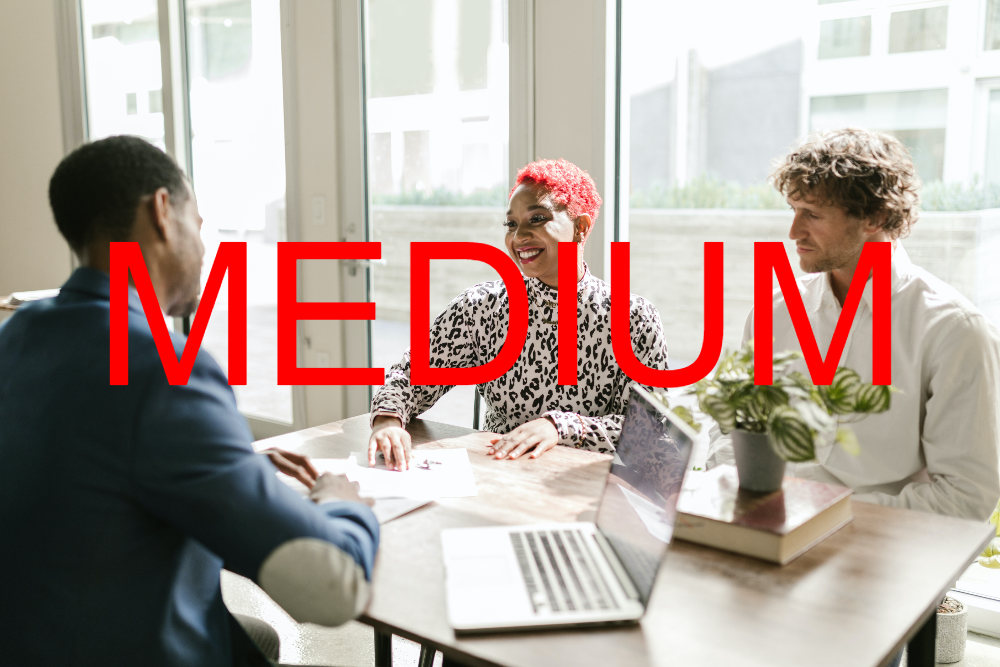
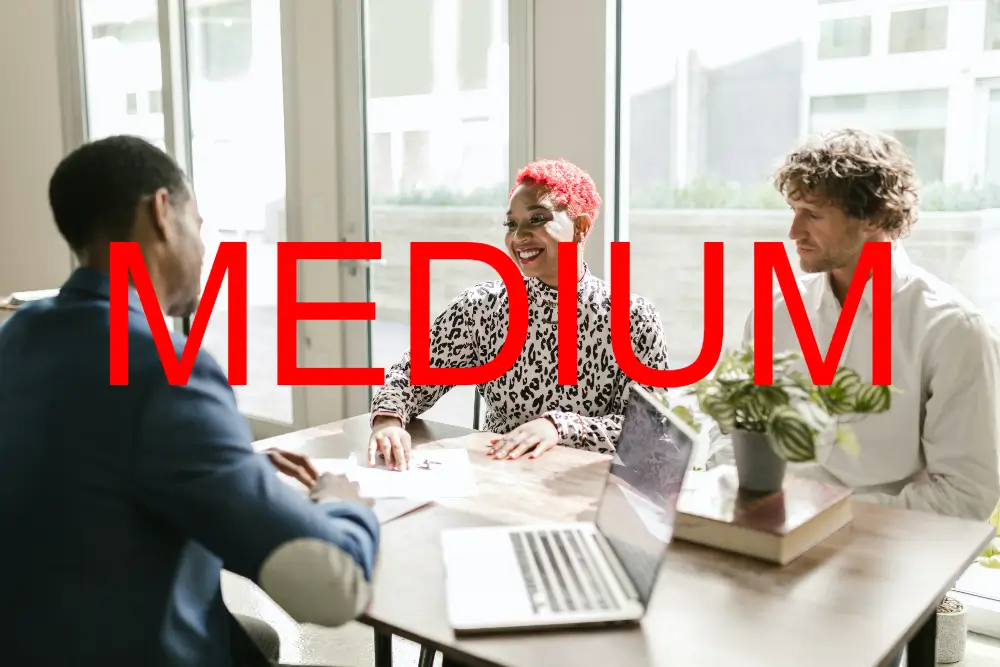
commit progressive loading images

diff --git a/lazyload.html b/lazyload.html
@@ -1,0 +1,37 @@
+<!DOCTYPE html>
+<html lang="en">
+<head>
+    <meta charset="UTF-8">
+    <meta http-equiv="X-UA-Compatible" content="IE=edge">
+    <meta name="viewport" content="width=device-width, initial-scale=1.0">
+    <title>Progressive Loading of Image</title>
+    <link rel="stylesheet" href="lazyload.css">
+</head>
+<body>
+    <header></header>
+    <main>
+        <h1>Progressive Loading (Images)</h1>
+        <picture>
+            <img src="images/placeholder_image.jpg" data-src="images/cat.jpg"/>
+        </picture>
+        <picture>
+            <img src="images/placeholder_image.jpg" data-src="images/girl.jpg"/>
+        </picture>
+        <picture>
+            <img src="images/placeholder_image.jpg" data-src="images/flowers.jpg"/>
+        </picture>
+        <picture>
+            <img src="images/placeholder_image.jpg" data-src="images/cow.jpg"/>
+        </picture>
+        <picture>
+            <img src="images/placeholder_image.jpg" data-src="images/sunset.jpg"/>
+        </picture>
+        <picture>
+            <img src="images/placeholder_image.jpg" data-src="images/child.jpg"/>
+        </picture>
+
+    </main>
+    <footer></footer>
+    <script src="lazyload.js"></script>
+</body>
+</html>

diff --git a/lazyload.js b/lazyload.js
@@ -1,0 +1,32 @@
+const imagesToLoad = document.querySelectorAll('picture img[data-src]');
+const loadImages = (image) => {
+  image.setAttribute('src', image.getAttribute('data-src'));
+  image.onload = () => {
+    image.removeAttribute('data-src');
+  };
+};
+const options = {
+  rootMargin: '0px 0px 300px 0px',
+  threshold: 0
+}
+if ('IntersectionObserver' in window) {
+  const observer = new IntersectionObserver((items) => {
+    items.forEach((item) => {
+      console.log('ITEM IS');
+      console.log(item);
+      if (item.isIntersecting) {
+        loadImages(item.target);
+        observer.unobserve(item.target);
+        console.log('ITEM TARGET IS');
+        console.log(item.target);  
+      }
+    });
+  }, options);
+  imagesToLoad.forEach((img) => {
+    observer.observe(img);
+  });
+} else {
+  imagesToLoad.forEach((img) => {
+    loadImages(img);
+  });
+}

diff --git a/index.html b/index.html
@@ -29,7 +29,7 @@
                 <li>Lesson 04: <a href="chamber/index.html">Chamber Home Page Build</a></li>
                 <li>Lesson 05: <a href="lesson4/bom.html">DOM Manipulation</a></li>
                 <li>Lesson 06: <a href="">Title</a></li>
-                <li>Lesson 07: <a href="">Title</a></li>
+                <li>Lesson 07: <a href="lazyload.html">lazyload.html</a>Progressive Loading of Images</li>
                 <li>Lesson 08: <a href="">Title</a></li>
                 <li>Lesson 09: <a href="">Title</a></li>
                 <li>Lesson 10: <a href="">Title</a></li>
@@ -43,6 +43,5 @@
         <p id="lastUpdate"></p>
     </footer>
     <script src="scripts/main.js"></script>
-    <script src="scripts/windchill.js"></script>
 </body>
 </html>

diff --git a/lazyload.css b/lazyload.css
@@ -1,0 +1,14 @@
+h1 {
+    text-align: center;
+}
+img[data-src] {
+    filter: blur(0.2em);
+}
+
+img {
+    display: block;
+    padding-bottom: 2rem;
+    margin: 0 auto;
+    filter: blur(0em);
+    transition: filter 0.5s;
+}
